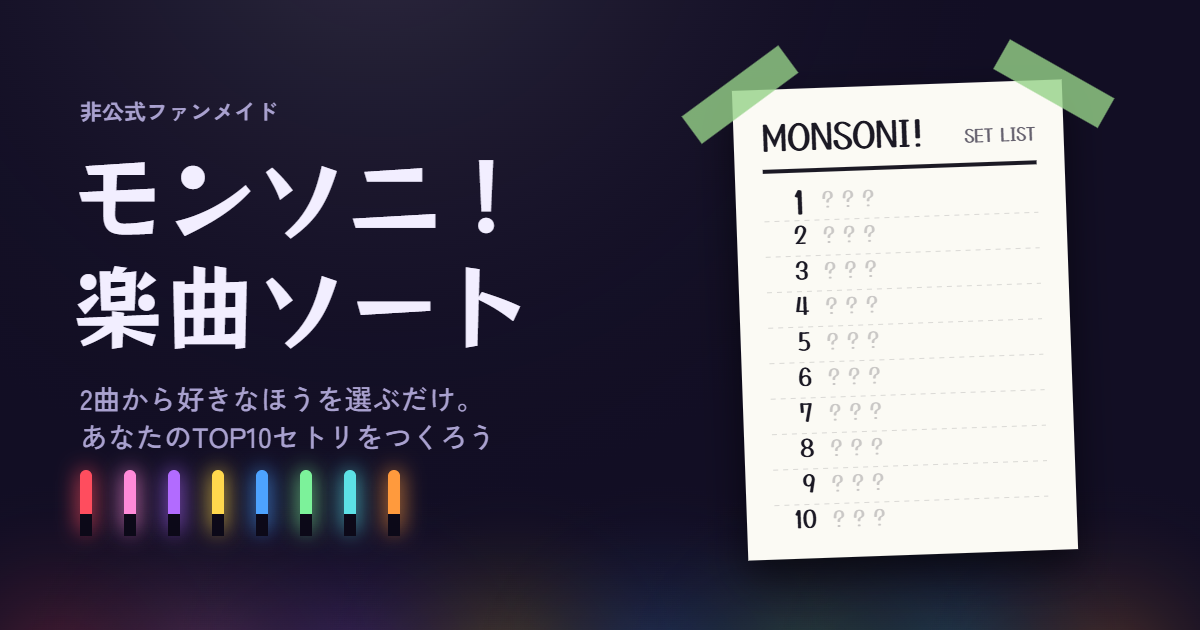
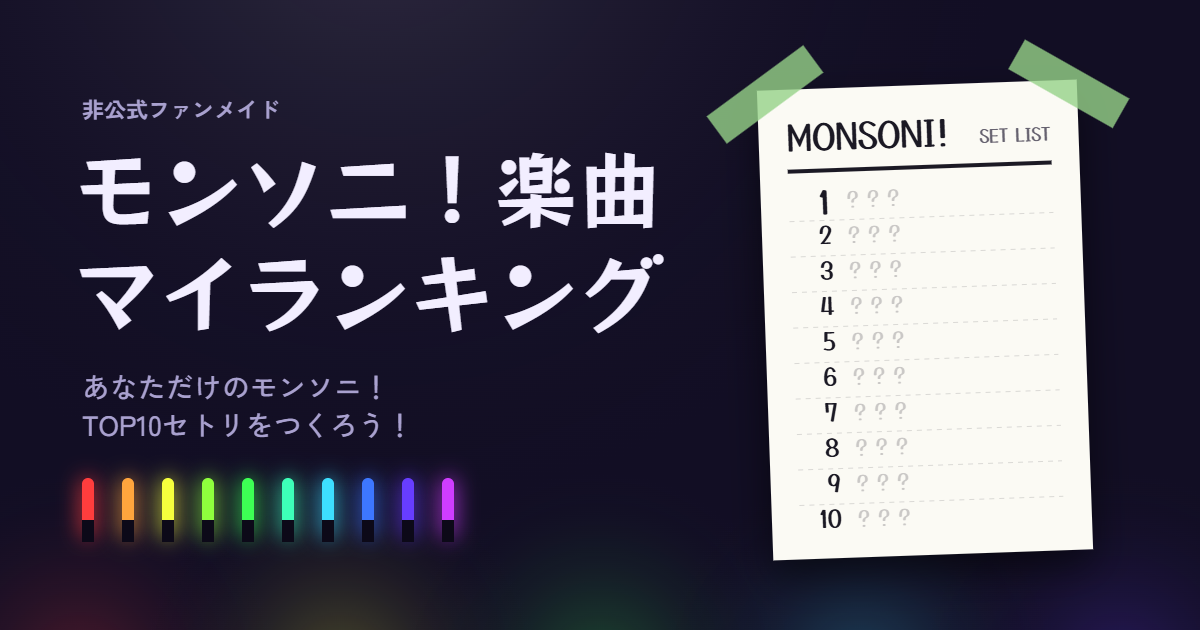
公開準備: カード画像の更新、OGPの公開URL、読み込みの版番号、ペンライトの分母を固定
- og.png を「楽曲マイランキング」の表記と虹色のペンライトで作り直し
- og:url / og:image を公開URL（unon7141.github.io/Monsoni-My-Ranking）の絶対パスに
- CSS/JS の読み込みに ?v= を付け、更新時に古いファイルが残らないように
- ペンライトの本数は、各ステージ開始時点の残り回数の目安を分母に決める

diff --git a/index.html b/index.html
@@ -6,18 +6,20 @@
   <title>モンソニ！楽曲マイランキング</title>
   <meta name="description" content="モンソニ！の楽曲から2曲ずつ好きなほうを選んで、あなたのTOP10を決める非公式ファンメイドのソートゲーム。">
   <meta name="theme-color" content="#120E24">
-  <!-- 公開後、og:url と og:image を公開URLの絶対パスに書き換えてください（例: https://example.github.io/monsoni-sort/og.png） -->
+  <!-- SNS のカード表示用。og:url と og:image は公開URLの絶対パスにする（X は相対パスの画像を表示しない） -->
   <meta property="og:type" content="website">
+  <meta property="og:url" content="https://unon7141.github.io/Monsoni-My-Ranking/">
   <meta property="og:title" content="モンソニ！楽曲マイランキング">
   <meta property="og:description" content="あなただけのモンソニ！TOP10セトリをつくろう。">
-  <meta property="og:image" content="og.png">
+  <meta property="og:image" content="https://unon7141.github.io/Monsoni-My-Ranking/og.png">
   <meta name="twitter:card" content="summary_large_image">
   <link rel="icon" href="favicon.svg" type="image/svg+xml">
   <link rel="preconnect" href="https://fonts.googleapis.com">
   <link rel="preconnect" href="https://fonts.gstatic.com" crossorigin>
   <link rel="preconnect" href="https://i.scdn.co" crossorigin>
   <link rel="stylesheet" href="https://fonts.googleapis.com/css2?family=Martian+Mono:wght@400;600&family=RocknRoll+One&family=Yusei+Magic&family=Zen+Kaku+Gothic+New:wght@400;500;700;900&display=swap">
-  <link rel="stylesheet" href="css/style.css">
+  <!-- 更新したら ?v= の数字を上げる（ブラウザや GitHub Pages に古いファイルが残るのを防ぐ） -->
+  <link rel="stylesheet" href="css/style.css?v=1">
 </head>
 <body>
   <div class="hall" aria-hidden="true"></div>
@@ -248,9 +250,9 @@
 
   <div class="toast" data-toast role="status" aria-live="polite"></div>
 
-  <script src="js/songs.js"></script>
-  <script src="js/engine.js"></script>
-  <script src="js/share.js"></script>
-  <script src="js/app.js"></script>
+  <script src="js/songs.js?v=1"></script>
+  <script src="js/engine.js?v=1"></script>
+  <script src="js/share.js?v=1"></script>
+  <script src="js/app.js?v=1"></script>
 </body>
 </html>

diff --git a/js/engine.js b/js/engine.js
@@ -630,6 +630,22 @@
       return Math.max(1, stage1 - relevant);
     }
 
+    // ステージ開始時点での残り回数の目安（ペンライトの分母）。
+    // 開始時点 = そのステージで最初の比較をする直前（復活や後に回すはその前に含める）
+    stageBudget() {
+      const ph = this.phase;
+      if (ph === 3) return 0;
+      const L = this.history.length;
+      let cut = ph === 1 ? 0 : Math.max(0, this._phase2At());
+      while (cut < L && this.history[cut].t !== "c") cut++;
+      const key = `${ph}:${cut}`;
+      if (this._budget && this._budget.key === key) return this._budget.value;
+      const e = new SortEngine(this.n, { K: this.K, seed: this.seed, excluded: this.excluded, history: this.history.slice(0, cut) });
+      const value = Math.max(1, e.stageRemainingEstimate());
+      this._budget = { key, value };
+      return value;
+    }
+
     serialize() {
       return { seed: this.seed, K: this.K, excluded: this.excluded, history: this.history };
     }

diff --git a/js/app.js b/js/app.js
@@ -354,8 +354,9 @@
   function stageProgress() {
     const start = engine.phase === 1 ? 0 : engine.phaseStartComparisons() || 0;
     const done = engine.comparisons - start;
-    const rest = engine.stageRemainingEstimate();
-    return done + rest > 0 ? done / (done + rest) : 1;
+    // 分母はステージ開始時点の残り回数の目安で固定（途中の見積もり変化で戻ったり伸び悩んだりしない）
+    const budget = engine.stageBudget();
+    return budget > 0 ? Math.min(1, done / budget) : 1;
   }
 
   // ペンライト列: 進み具合 10% ごとに1本灯る。色は左から虹色
